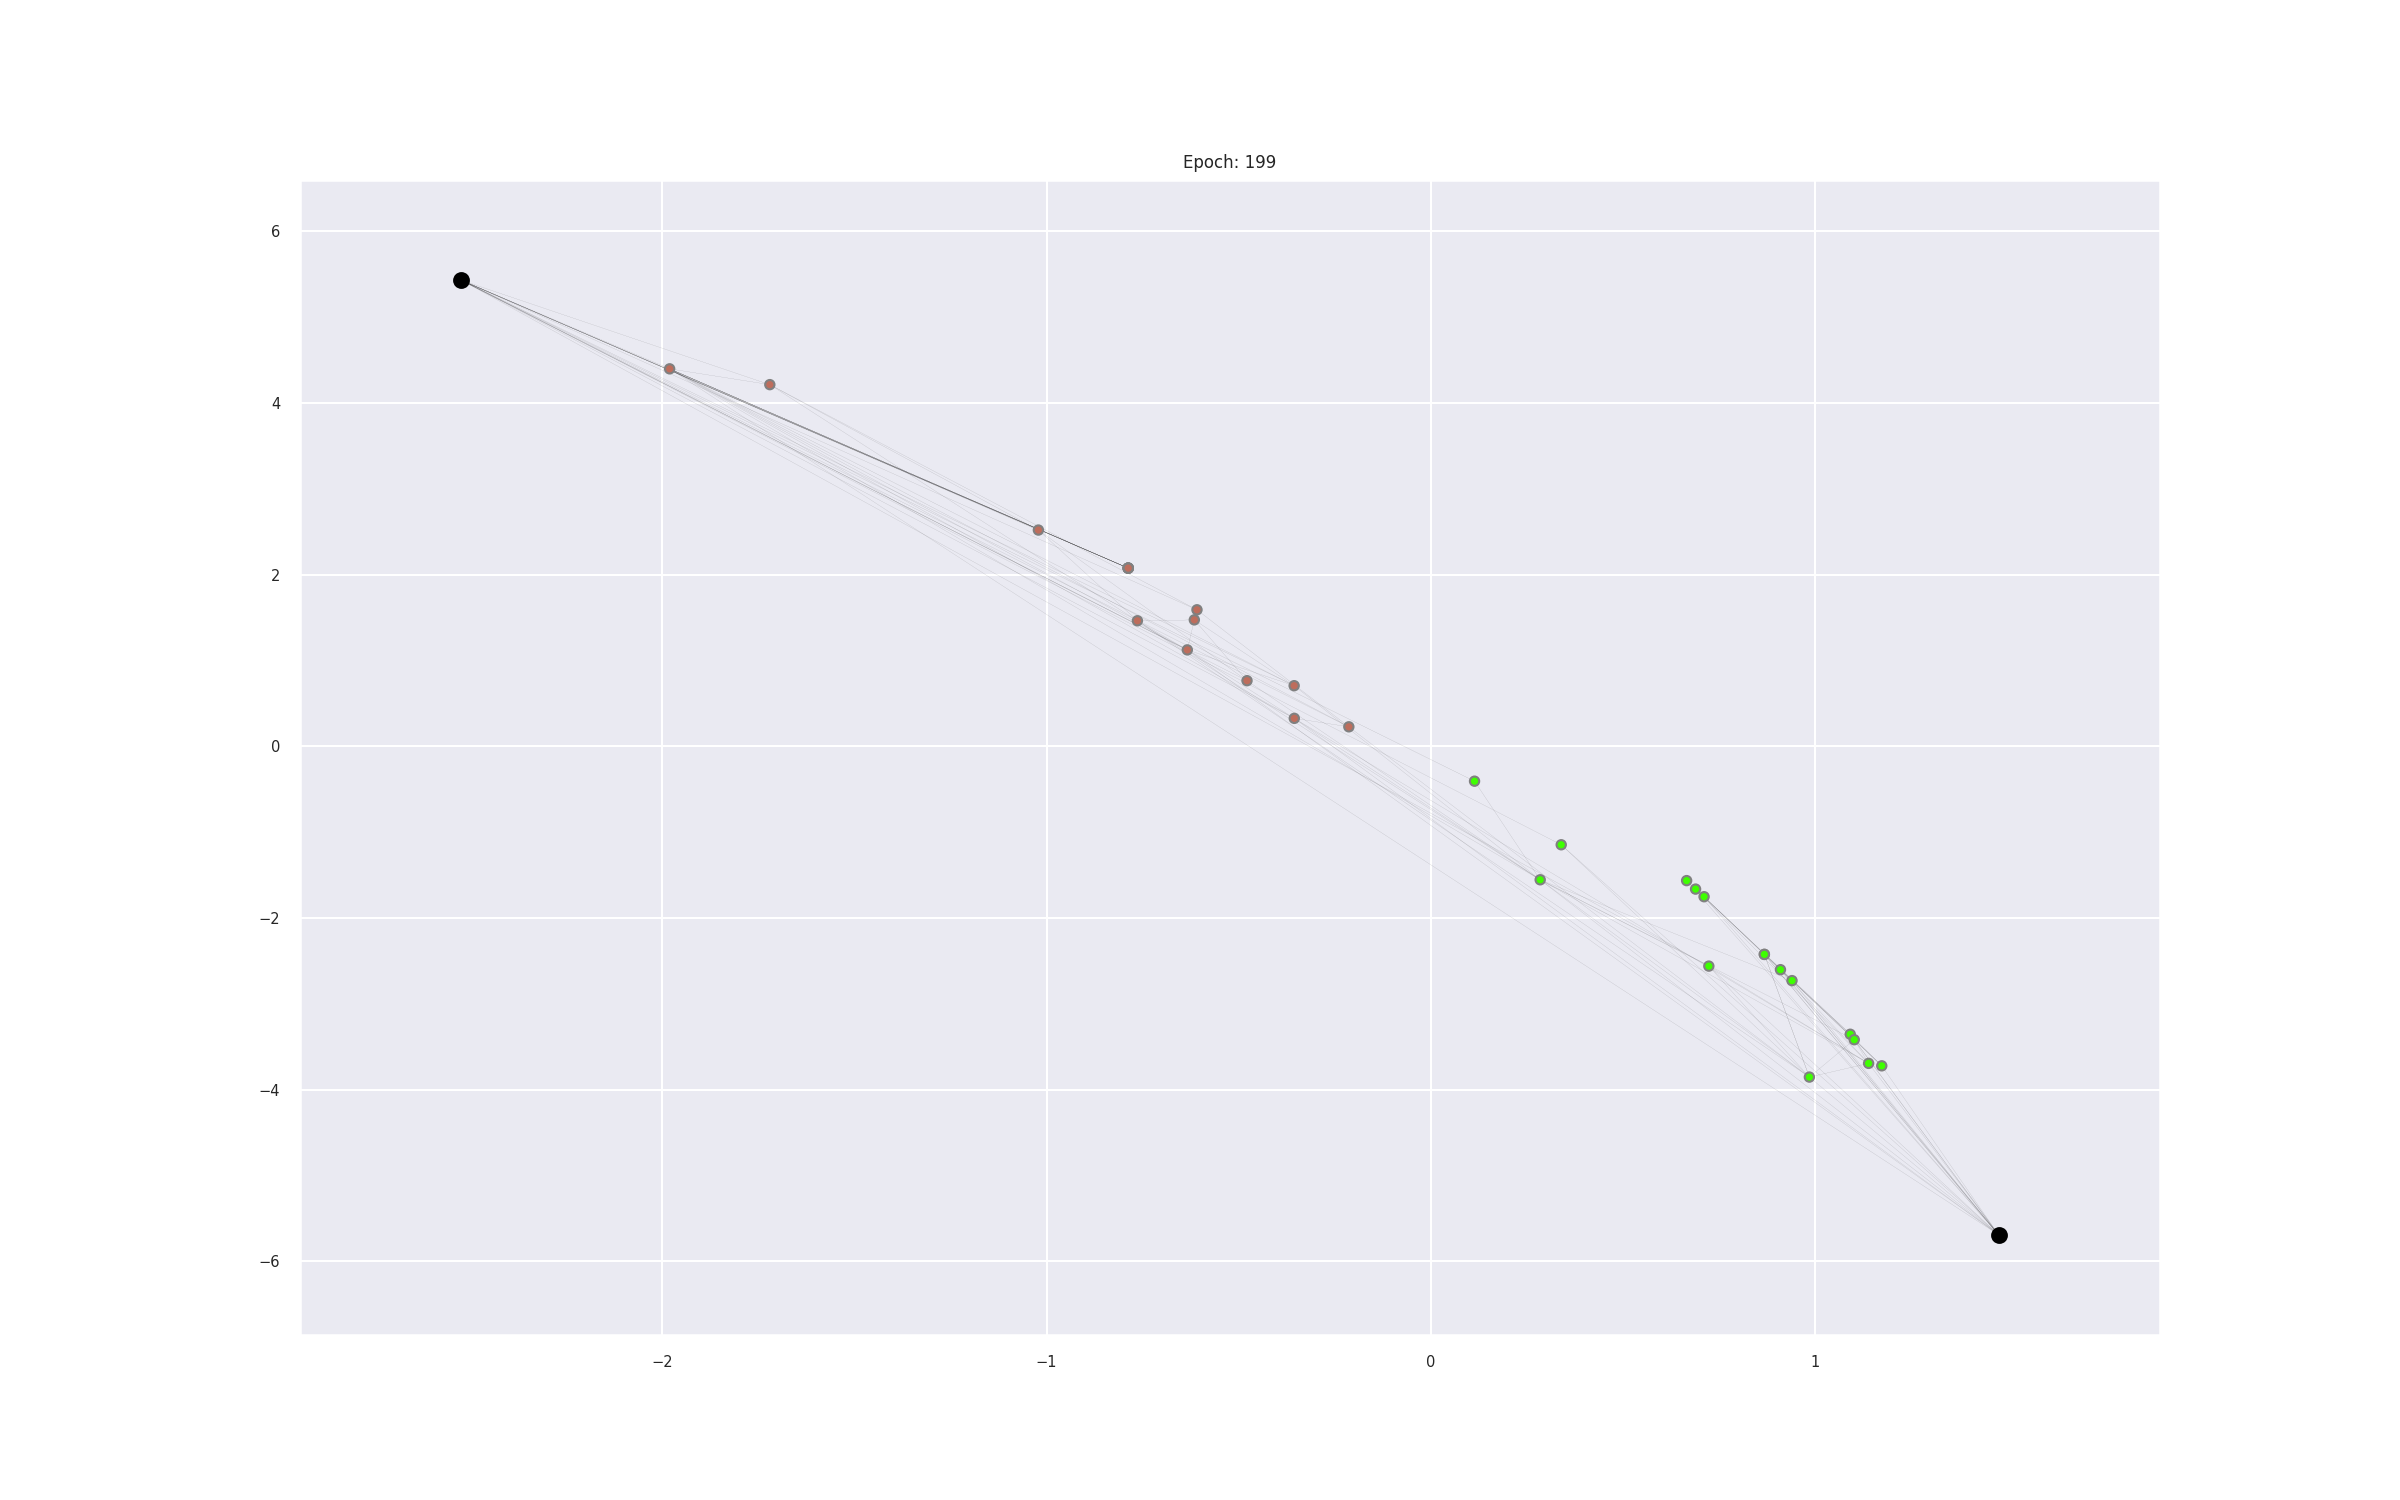
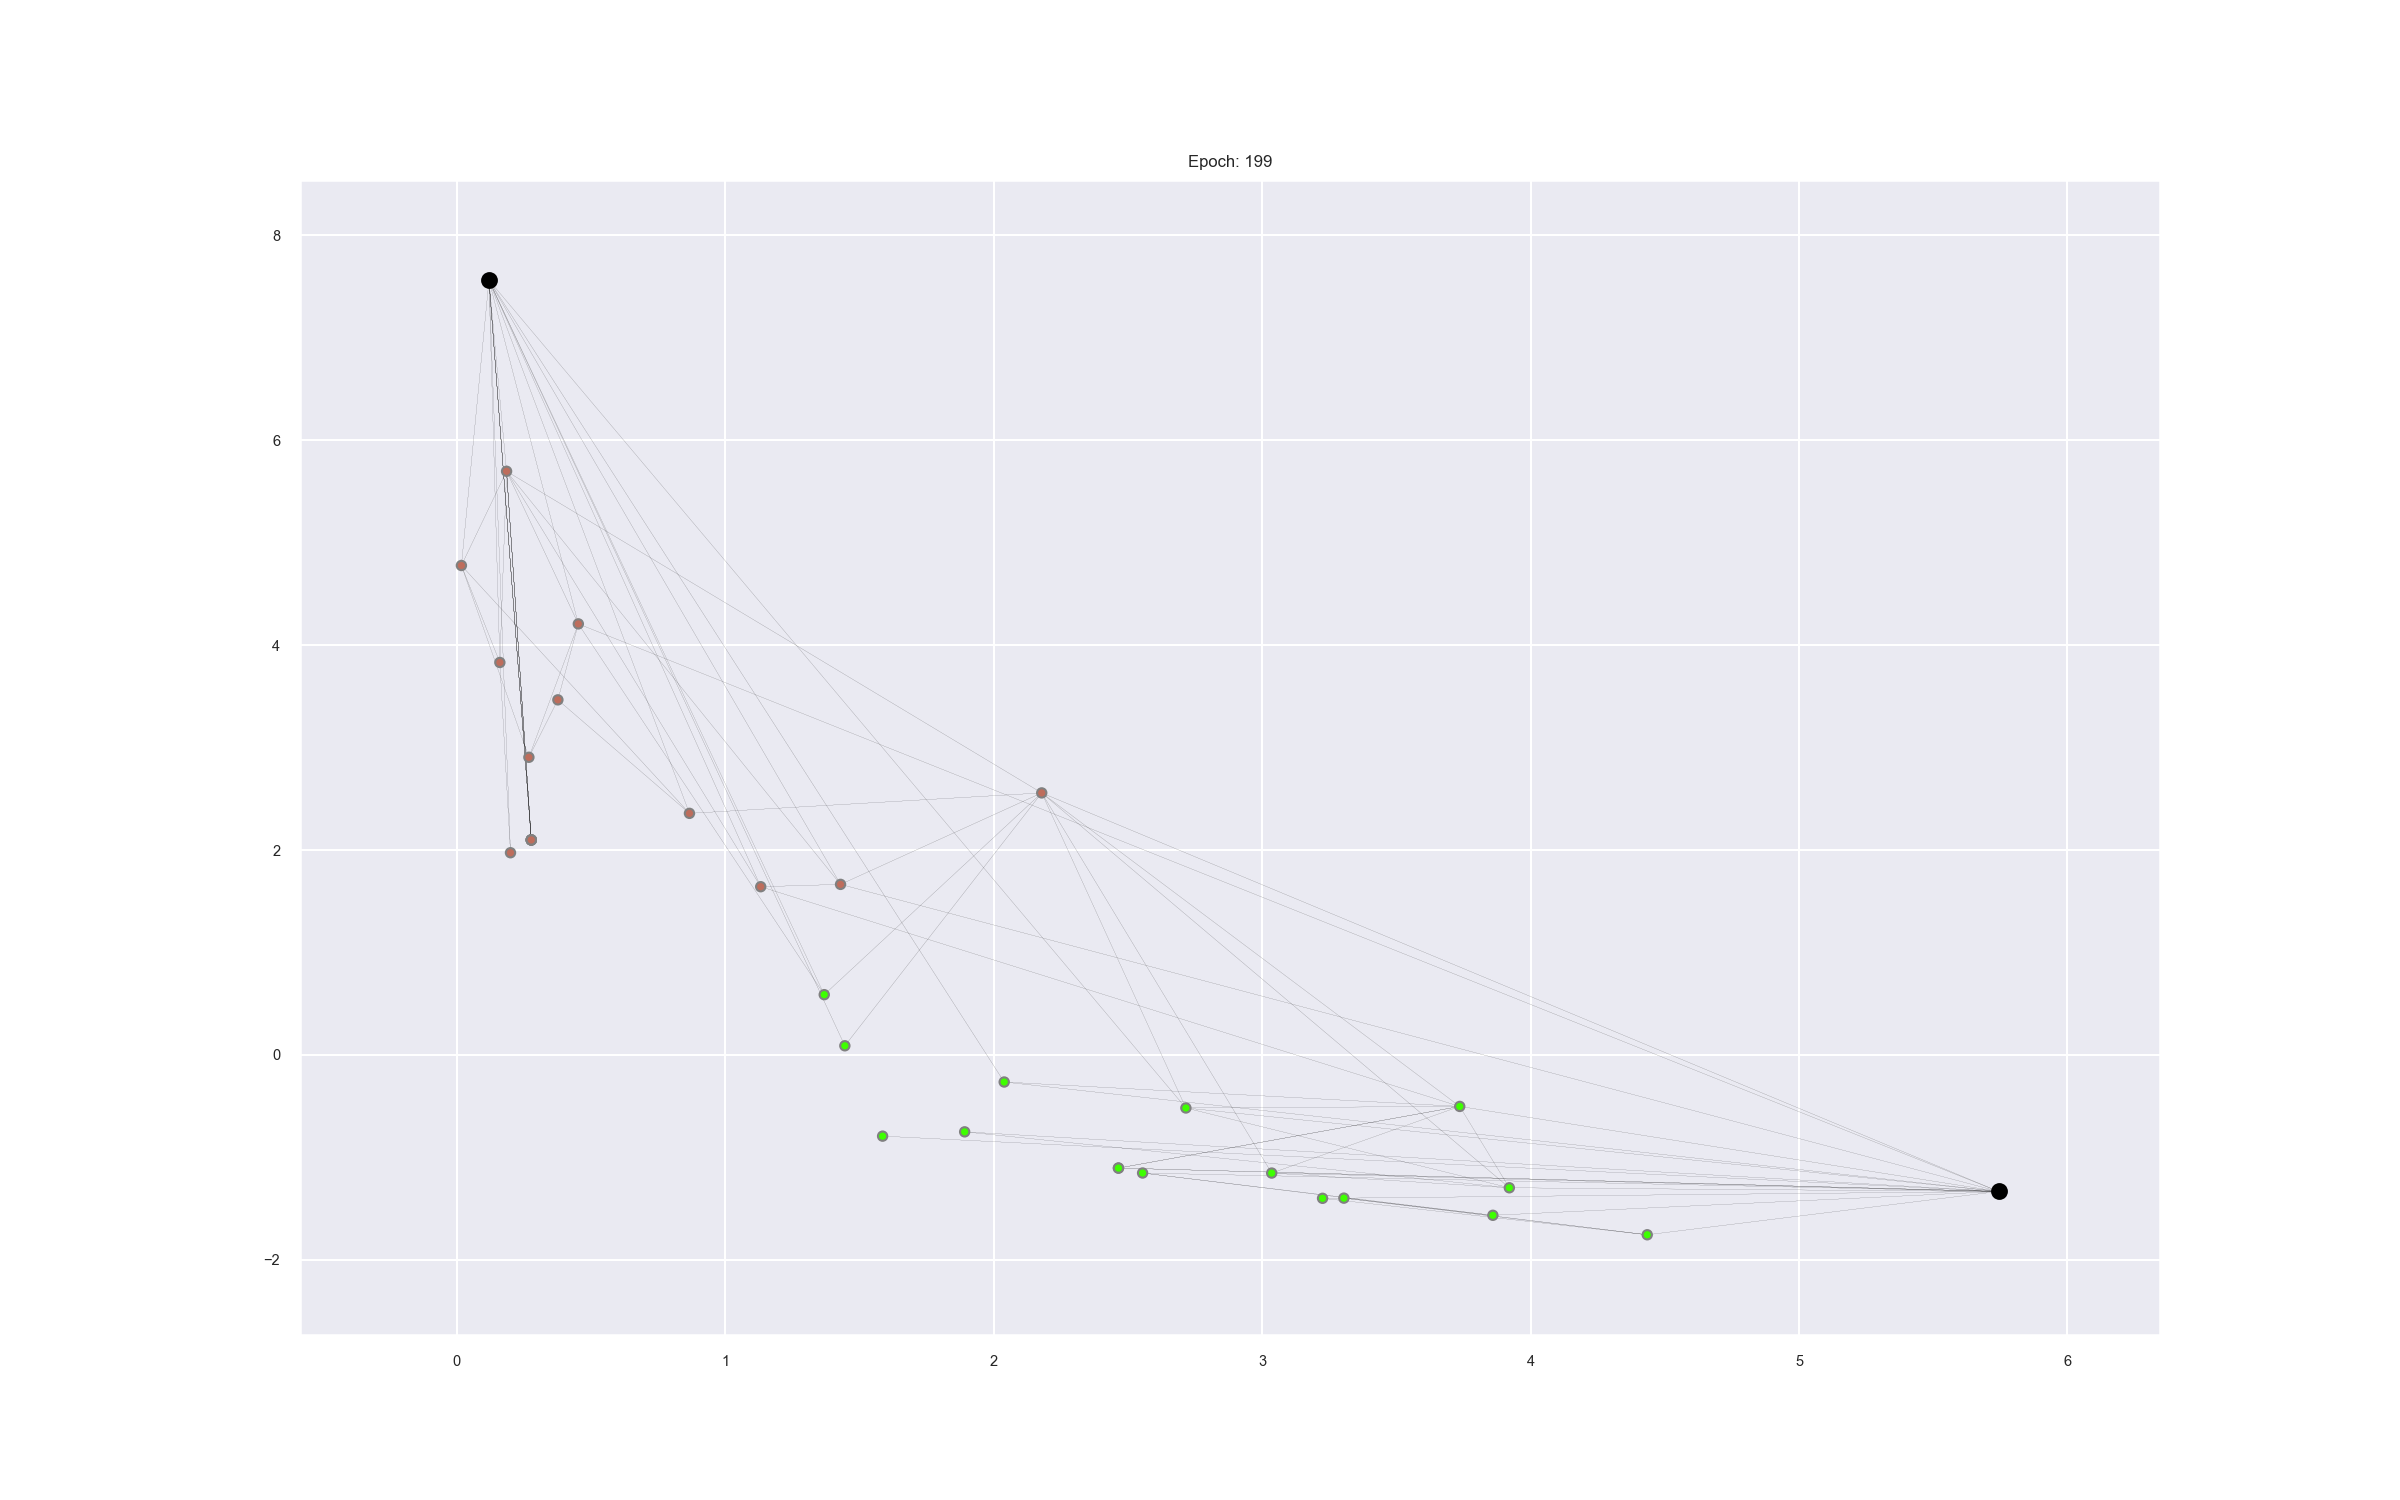
dirty code but works

diff --git a/neodgl.py b/neodgl.py
@@ -1,62 +1,54 @@
+import neo4j
 from neo4j import GraphDatabase
-from neo4j.types.graph import Node, Relationship
+from neo4j.graph import Node, Relationship
 import pandas as pd
-import networkx as nx
+import dgl
+import matplotlib.pyplot as plt
+import numpy as np
 
-def graph_from_cypher(data):
-    """Constructs a networkx graph from the results of a neo4j cypher query.
-    Example of use:
-    >>> result = session.run(query)
-    >>> G = graph_from_cypher(result.data())
 
-    Nodes have fields 'labels' (frozenset) and 'properties' (dicts). Node IDs correspond to the neo4j graph.
-    Edges have fields 'type_' (string) denoting the type of relation, and 'properties' (dict)."""
+class edge_list():
+    """Class to run LinkPred"""
+    def __init__(self) -> None:
+        self.driver = GraphDatabase.driver("neo4j://localhost:7687", auth=("neo4j", "quickstart"))
 
-    G = nx.Graph()
-    def add_node(node):
-        # Adds node id it hasn't already been added
-        u = node.id
-        if G.has_node(u):
-            return
-        G.add_node(u, labels=node._labels, properties=dict(node))
+    def close(self) -> None:
+        self.driver.close()
 
-    def add_edge(relation):
-        # Adds edge if it hasn't already been added.
-        # Make sure the nodes at both ends are created
-        for node in (relation.start_node, relation.end_node):
-            add_node(node)
-        # Check if edge already exists
-        u = relation.start_node.id
-        v = relation.end_node.id
-        eid = relation.id
-        if G.has_edge(u, v, key=eid):
-            return
-        # If not, create it
-        G.add_edge(u, v, key=eid, type_=relation.type, properties=dict(relation))
+    @classmethod
+    def edge_list(cls, tx) -> any:
+        query = ("""
+                    MATCH path=(m)--(n)
+                    RETURN m.id AS u, n.id AS v
+                """)
+        result = tx.run(query)
+        #return a dataframe
+        return result.data() 
 
-    for d in data:
-        for entry in d.values():
-            # Parse node
-            if isinstance(entry, Node):
-                add_node(entry)
+    def get_edge_list(self) -> any:
+        result = self.driver.session().write_transaction(self.edge_list)
+        return pd.DataFrame(result)
 
-            # Parse link
-            elif isinstance(entry, Relationship):
-                add_edge(entry)
-            else:
-                raise TypeError("Unrecognized object")
-    return G
+    def dgl_graph_from_cypher(self, data: pd.DataFrame) -> None:
+        """
+        Takes the whole graph and creates dgl graph
 
-driver = GraphDatabase.driver('bolt://localhost:7687', auth=("neo4j", "hunter2"))
+        ARGS:
+            data is the edge list in a pandas df
+            
+        RETURNS: dgl graph
+        """
+        u = data["u"].to_numpy()
+        v = data["v"].to_numpy()
+        #Building diagram
+        return dgl.DGLGraph((u, v))
 
-query = """
-MATCH (p:Person)-[:ACTED_IN]->(m:Movie)
-WHERE toLower(m.title) CONTAINS "you"
-RETURN *
-"""
 
-with driver.session() as session:
-    result = session.run(query)
 
-# This works
-G = graph_from_cypher(result.data())
+
+
+if __name__ == "__main__":
+    hello = edge_list()
+    data = hello.dgl_graph_from_cypher(hello.get_edge_list())
+    print('We have %d nodes.'% data.number_of_nodes())
+    print('We have %d edges.'% data.number_of_edges())

diff --git a/train.py b/train.py
@@ -16,18 +16,22 @@ sns.set(font_scale = 1.5)
 sns.set_theme()
 
 
+
+
+from neodgl import edge_list 
 from model import *
 from utils import *
 
 #Print out the number of nodes and edges in the newly constructed graph
-G = build_karate_club_graph()
+hello = edge_list()
+G = hello.dgl_graph_from_cypher(hello.get_edge_list())
+nx_G = G.to_networkx().to_undirected()
 print('We have %d nodes.'% G.number_of_nodes())
 print('We have %d edges.'% G.number_of_edges())
-#Visualize the graph by converting it into a networkx graph
-nx_G = G.to_networkx().to_undirected()
+
 pos = nx.kamada_kawai_layout(nx_G)
 #nx.draw(nx_G, pos, with_labels=True, node_color=[[.7, .7, .7]])
-#plt.savefig('graph.png')
+plt.savefig('graph_vis/graph.png')
 
 ################################
 #train the model
@@ -90,3 +94,5 @@ plt.savefig("graph_vis/Initial_Embedding.png")
 draw(199, all_logits, nodelist, nx_G, ax)
 plt.savefig("graph_vis/Final_Iteration.png")
 print("Visualizations saved to", "/graph_vis")
+
+hello.close()

diff --git a/utils.py b/utils.py
@@ -88,4 +88,4 @@ if __name__ == "__main__":
     nx_G = G.to_networkx().to_undirected()
     pos = nx.kamada_kawai_layout(nx_G)
     nx.draw(nx_G, pos, with_labels=True, node_color=[[.7, .7, .7]])
-    plt.savefig('graph.png')
+    plt.savefig('graph_vis/karate.png')

diff --git a/setup.py b/setup.py
@@ -1,0 +1,13 @@
+import dgl
+import neo4j
+import matplotlib
+import seaborn
+import torch
+import tensorflow
+
+
+def setup():
+    """
+    makes the dgl config file into pytorch 
+    """
+    pass
